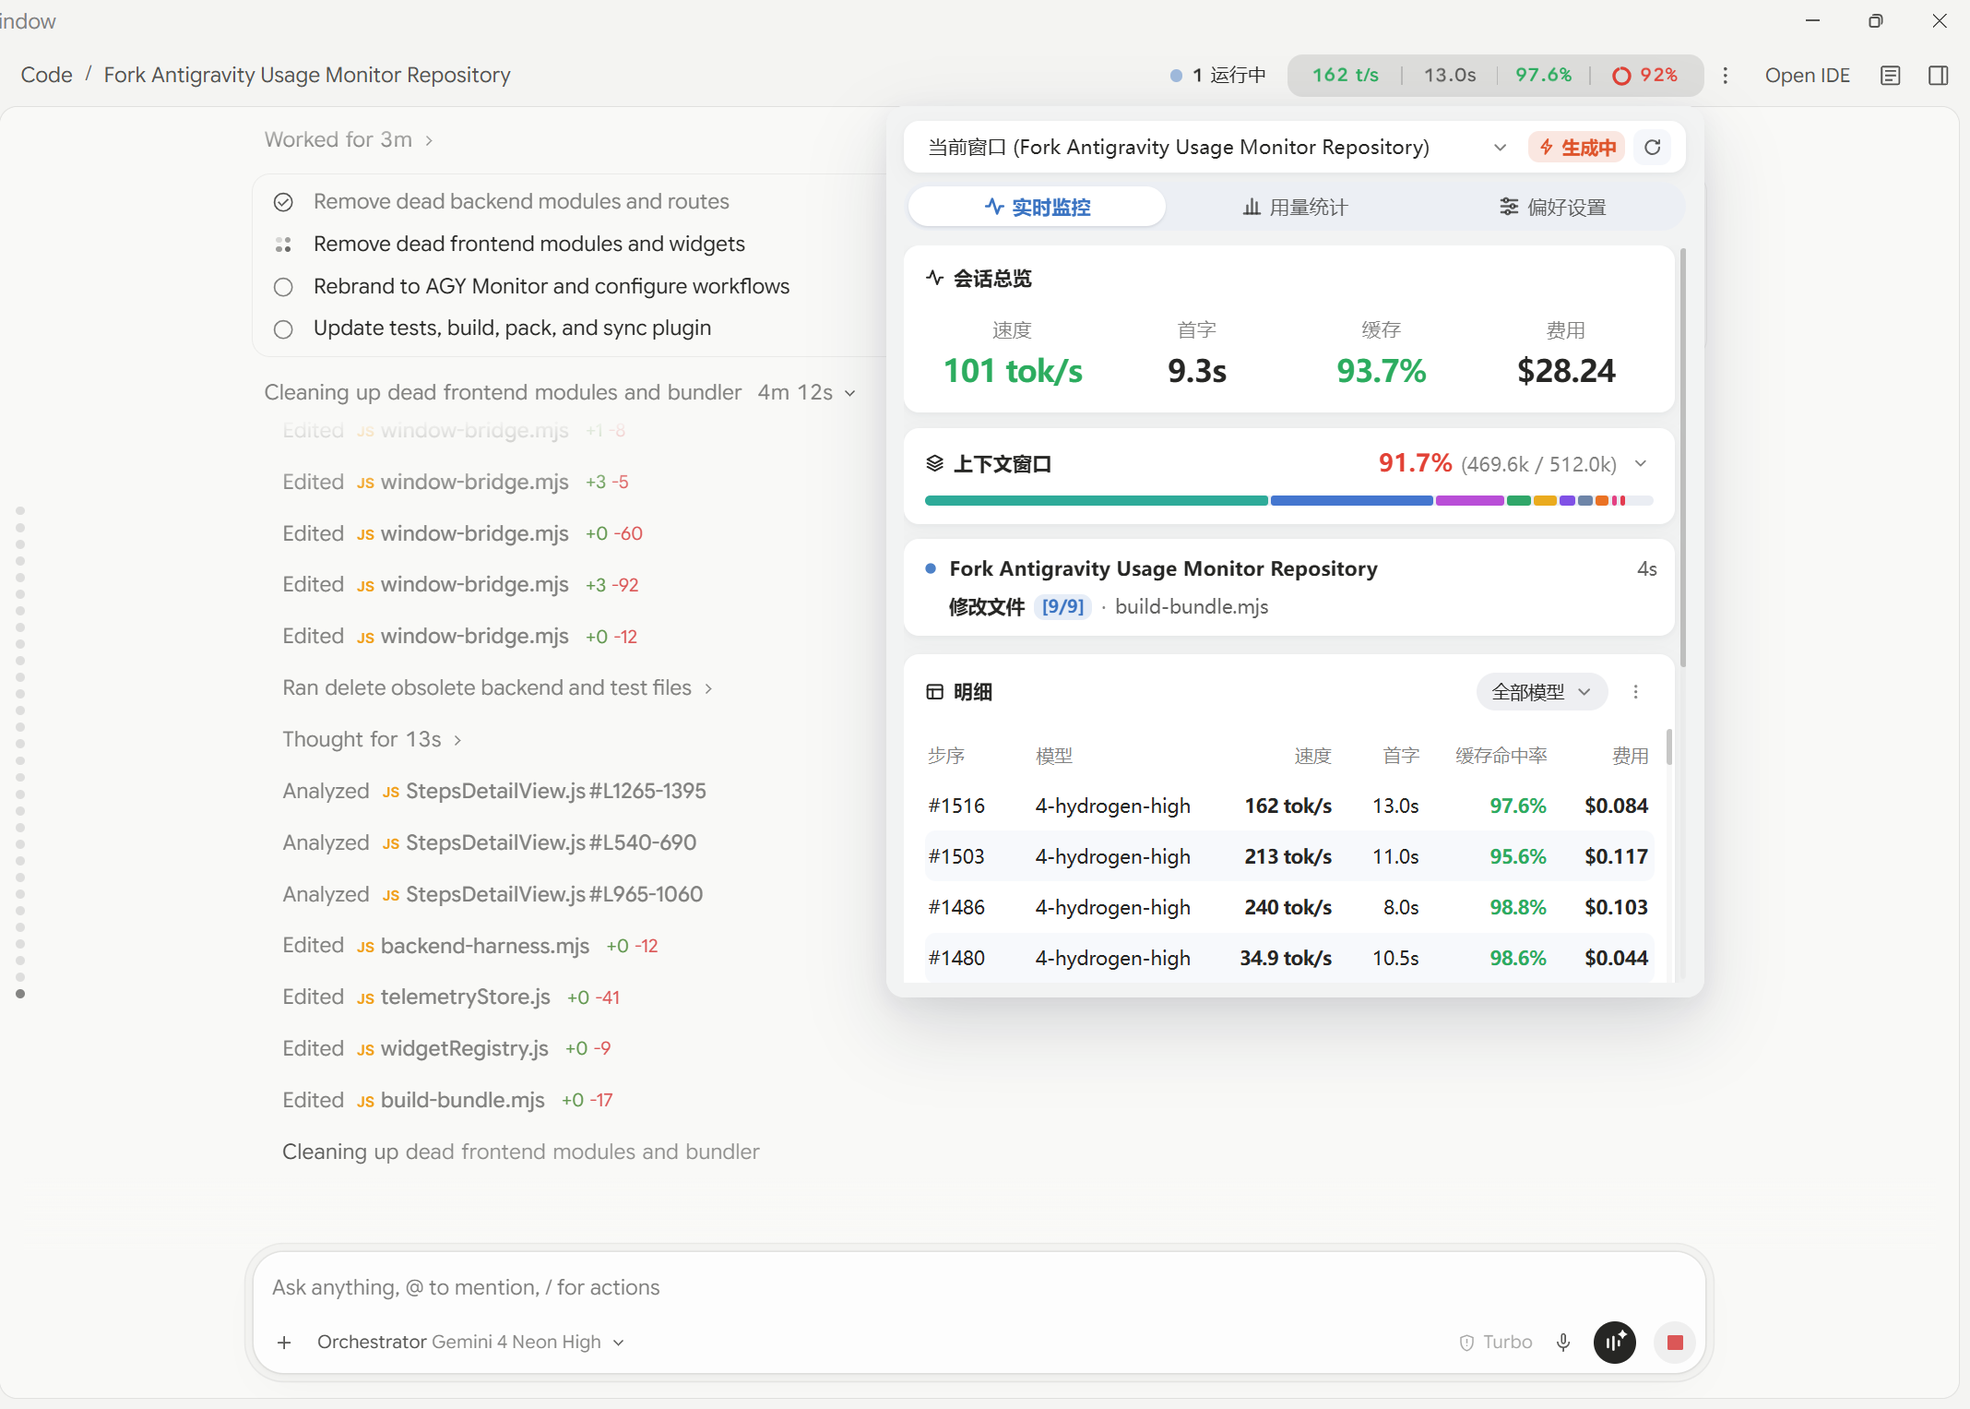
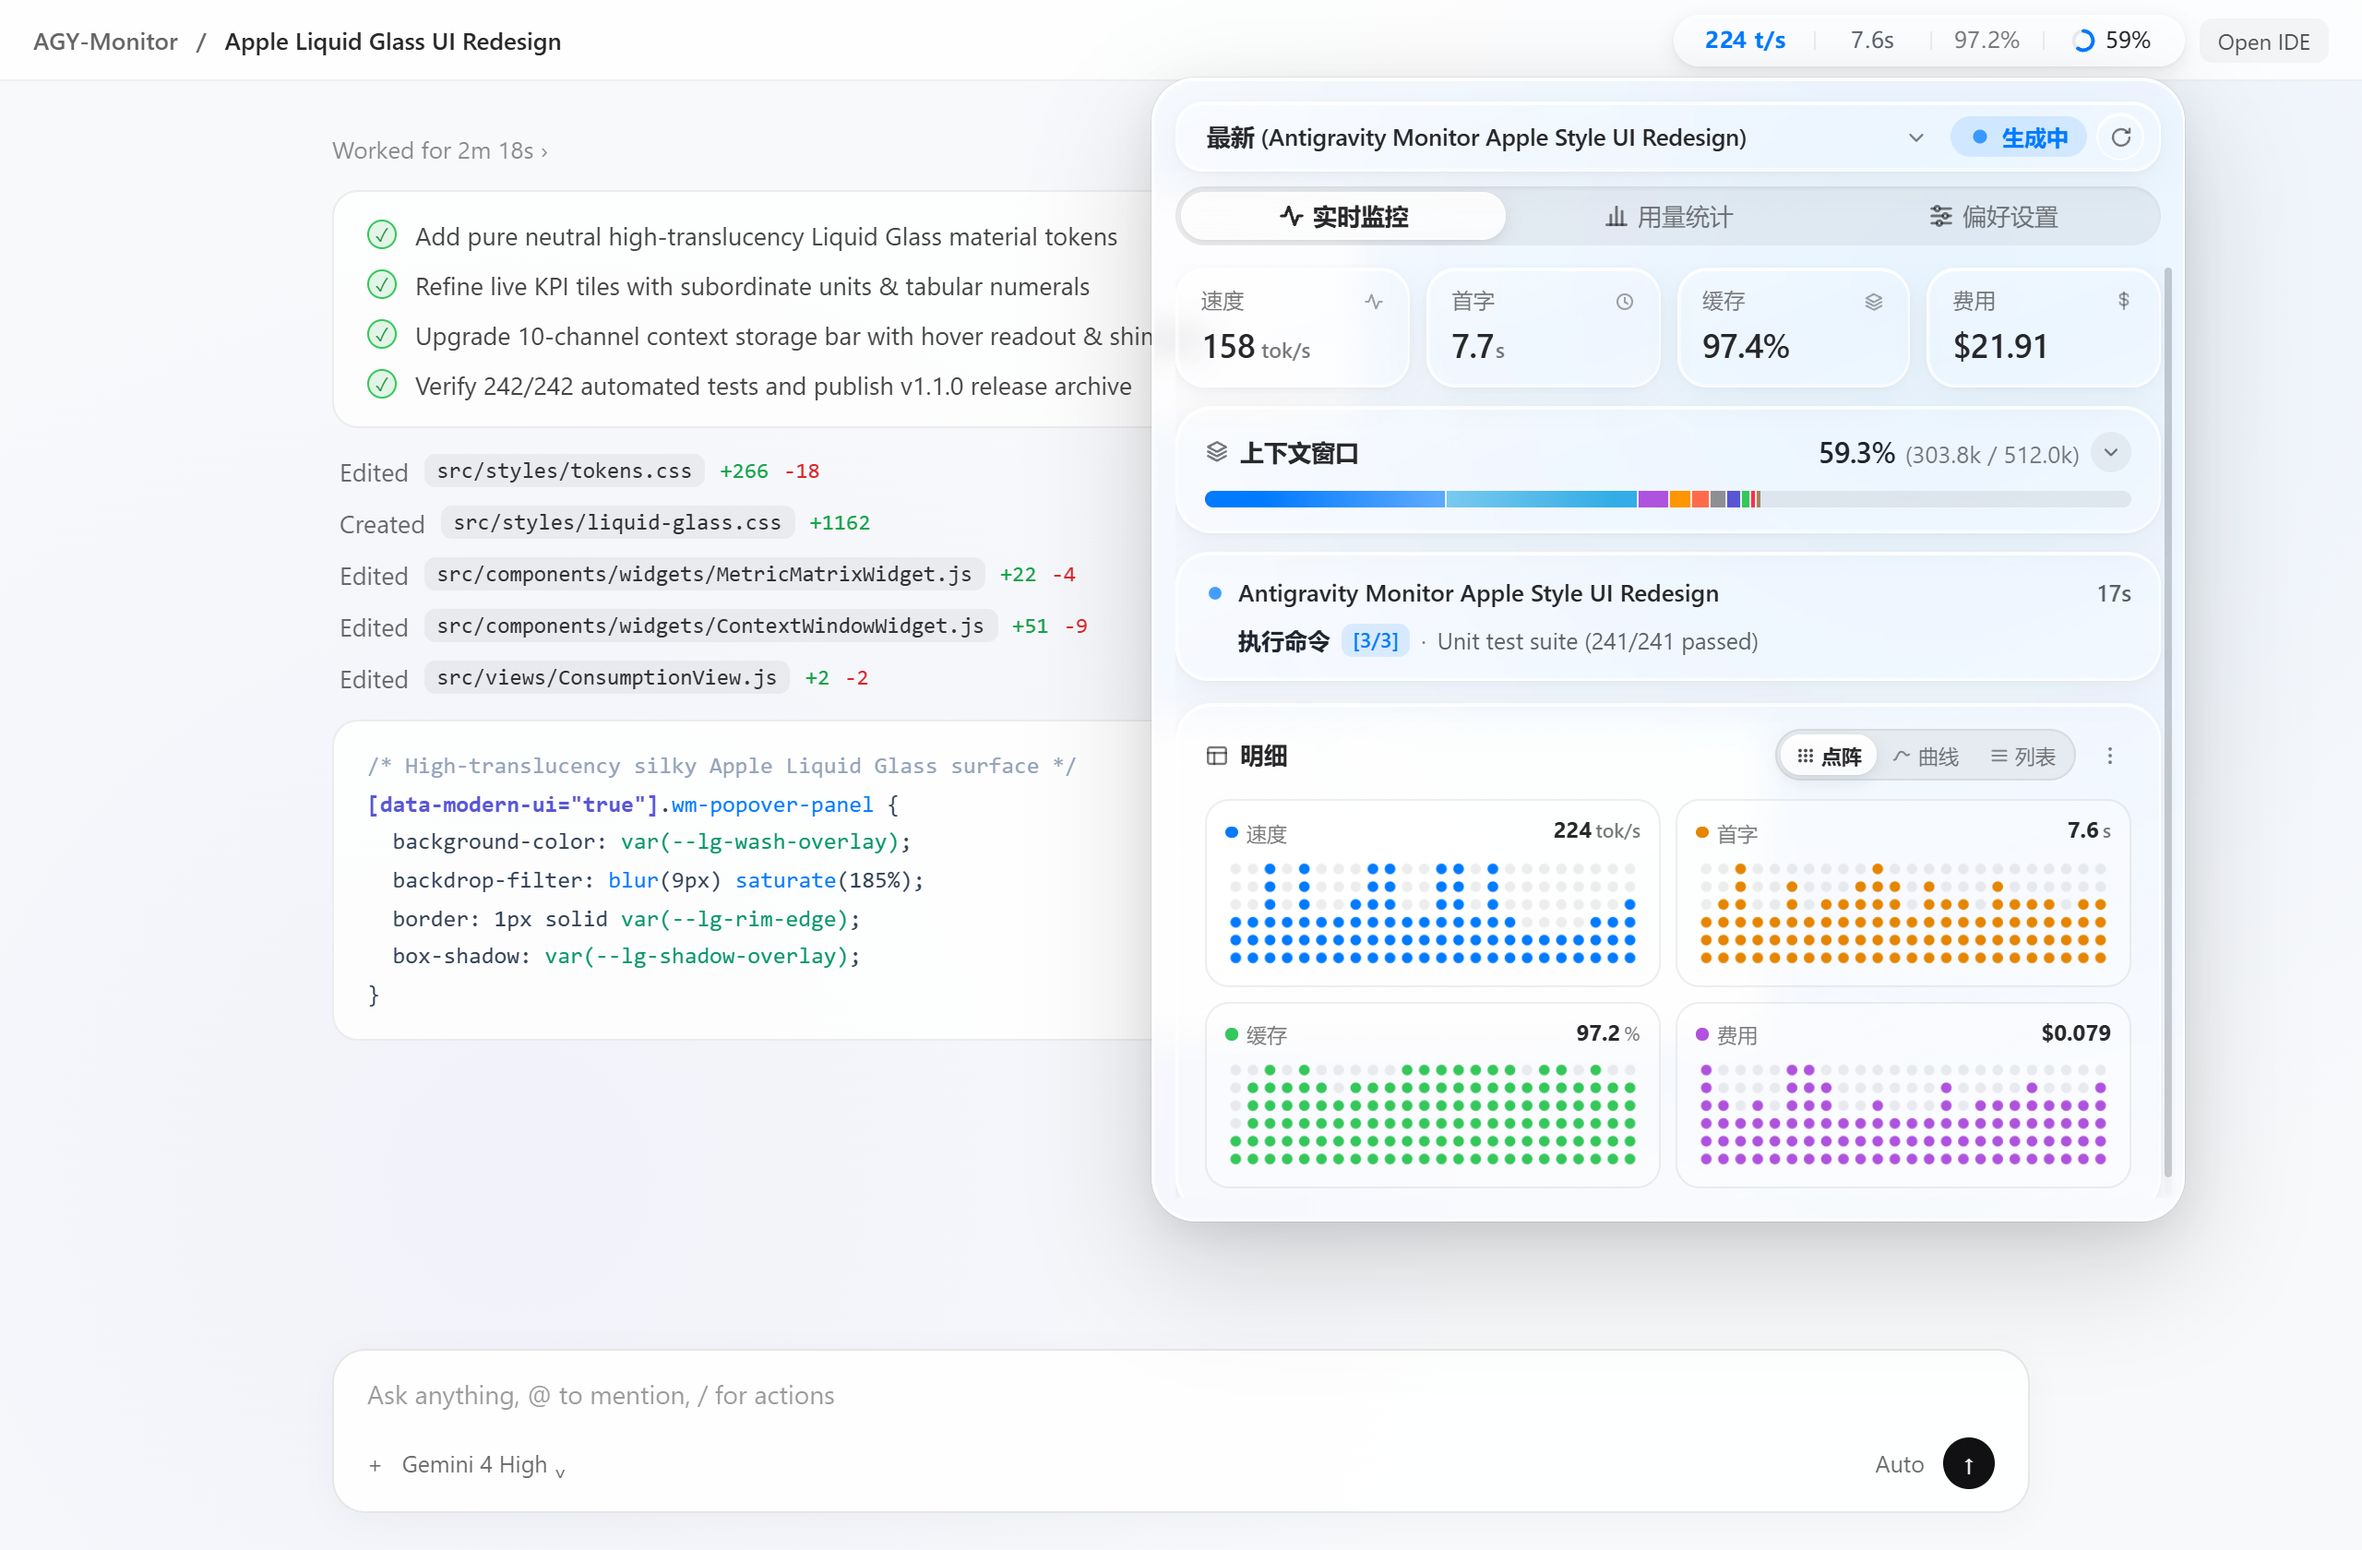
release: AGY Monitor v1.1.0 with Liquid Glass README and screenshots

diff --git a/README.zh-CN.md b/README.zh-CN.md
@@ -1,12 +1,14 @@
 <div align="center">
 
-<img src="assets/agy-monitor-icon.png" alt="AGY Monitor 图标" width="128" height="128" />
+<img src="assets/banner.png" alt="AGY Monitor — Apple Liquid Glass 实时监控插件" width="100%" />
 
 # AGY Monitor
 
-专注于本地实时性能指标与 Token 用量分析的 Google Antigravity 监控插件 —— 零外部依赖、零账号权限触碰、即装即用
+**Apple Liquid Glass 质感 · Google Antigravity 本地实时性能监控与 Token 分析插件**
 
-[![Release](https://img.shields.io/github/v/release/infinitex233/AGY-Monitor?style=flat-square&color=2A5E76&label=release)](https://github.com/infinitex233/AGY-Monitor/releases/latest)
+支持液态玻璃 / 默认经典双主题热切换 · 2×2 四维点阵/曲线趋势 · 纯吐字 TPS · 零外部依赖 · 零账号凭证触碰
+
+[![Release](https://img.shields.io/github/v/release/infinitex233/AGY-Monitor?style=flat-square&color=007aff&label=release)](https://github.com/infinitex233/AGY-Monitor/releases/latest)
 [![Downloads](https://img.shields.io/github/downloads/infinitex233/AGY-Monitor/total?style=flat-square&color=0ea5e9)](https://github.com/infinitex233/AGY-Monitor/releases)
 [![Stars](https://img.shields.io/github/stars/infinitex233/AGY-Monitor?style=flat-square&color=f59e0b)](https://github.com/infinitex233/AGY-Monitor/stargazers)
 [![License](https://img.shields.io/github/license/infinitex233/AGY-Monitor?style=flat-square&color=3b82f6)](LICENSE)
@@ -20,11 +22,7 @@
 
 <br />
 
-<img src="assets/screenshots/popover-live.png" alt="AGY Monitor 实时监控浮窗" width="100%" />
-
-<br />
-
-[下载最新版本 (Releases)](https://github.com/infinitex233/AGY-Monitor/releases/latest) · [直接下载 `agy-monitor.zip`](https://github.com/infinitex233/AGY-Monitor/releases/latest/download/agy-monitor.zip)
+[下载最新版本 (`v1.1.0`)](https://github.com/infinitex233/AGY-Monitor/releases/latest) · [直接下载 `agy-monitor.zip`](https://github.com/infinitex233/AGY-Monitor/releases/latest/download/agy-monitor.zip)
 
 </div>
 
@@ -56,9 +54,9 @@
     <td align="center" width="50%">
       <img src="assets/screenshots/popover-live.png" alt="实时监控浮窗" width="100%" />
       <br />
-      <b>实时监控（悬浮浮窗）</b>
+      <b>实时监控（Liquid Glass 悬浮浮窗）</b>
       <br />
-      <sub>会话总览、10 通道上下文构成条、活跃任务状态与内嵌式调用明细表</sub>
+      <sub>纯吐字 TPS、10 通道上下文条、活跃任务状态与 2×2 四维点阵 / 曲线 / 列表三态切换</sub>
     </td>
   </tr>
   <tr>
@@ -74,7 +72,7 @@
       <br />
       <b>右侧辅助栏视图</b>
       <br />
-      <sub>宽屏辅助栏常驻监控，完整展开多步骤模型性能与费用明细</sub>
+      <sub>宽屏辅助栏常驻监控，完整呈现 2×2 四维同步点阵与步骤明细</sub>
     </td>
   </tr>
 </table>
@@ -87,10 +85,10 @@
 - **无侵入轻量挂载**：通过本地 CDP 在内存层渲染，**绝不修改**宿主 `app.asar` 安装包。
 - **一眼掌握关键状态**：顶栏默认展示 **实时速度（`tok/s`）| 首字延迟（`TTFT`）| 实时缓存命中率 | 上下文环形占比**；鼠标悬停展开四卡速览（实时速度、首字延迟、实时缓存、本次费用）与上下文通道分布，点击开启完整面板，右键快速刷新。
 
-### 2. 「实时监控」：会话总览 + 上下文拆解 + 内嵌明细
-- **四合一会话总览**：直观汇总当前会话的平均输出速度、平均首字延迟、缓存命中率与累计预估费用。
-- **10 类上下文窗口构成**：清晰拆分模型回复、工具结果、用户消息、子代理通知、压缩摘要、系统提示词、系统工具、MCP 工具、Skill 与用户规则，支持在主代理与任意子代理 / Swarm Worker 间切换查看。
-- **内嵌式调用明细表**：无需切出标签页，直接在监控页底部浏览、排序或按模型筛选每一步调用；支持悬停查看首字/耗时拆解、异常与压缩诊断标注、关键词检索，以及导出为多表 Excel（`.xlsx`）或复制 Markdown 汇总。
+### 2. 「实时监控」：纯吐字 TPS + 上下文拆解 + 2×2 四维趋势
+- **纯吐字速度与四合一总览**：自动剔除首字排队/预填充等待（`outputTokens / max(totalDuration - TTFT, 50ms)`），真实反映模型生成吞吐，同时汇总平均首字延迟、缓存命中率与累计预估费用。
+- **10 类上下文窗口构成**：清晰拆分模型回复、工具结果、用户消息、子代理通知、压缩摘要、系统提示词、系统工具、MCP 工具、Skill 与用户规则，悬停任意分段即时高亮读数，支持主代理与子代理/蜂群切换查看。
+- **2×2 四维趋势与明细三态切换（点阵 / 曲线 / 列表）**：默认以 2×2 纯色点阵同屏呈现最近 24 步的速度、首字、缓存与费用（支持平滑曲线与完整明细表一键切换）；内置中位数锚定 P85 静默封顶与四格同步 Hover 联动，列表模式下保留筛选、排序与多表 Excel（`.xlsx`）/ Markdown 导出。
 - **更直观的模型代号**：精简模式采用版本号前置命名（例如 `4-hydrogen-high`、`4-neon-high`），符合 Gemini 模型识别直觉。
 
 ### 3. 「用量统计」：时间趋势 + 半年热力图 + 多维排行
@@ -100,7 +98,7 @@
 - **多维排行与报表导出**：对比不同模型、项目工作区与历史会话的 Token、费用、缓存命中率、平均速度与首字表现，同样支持导出 `.xlsx` 与 Markdown。
 
 ### 4. 「偏好设置」：单页轻量控制
-- **界面与显示**：一键切换语言（跟随宿主 / 简体中文 / English）、主题强调色、字号缩放（`sm / md / lg / xl`）、模型名称展示格式与挂载方式（双栖挂载 / 输入框挂载 / 仅侧边栏）。
+- **界面与显示**：一键切换语言（跟随宿主 / 简体中文 / English）、**界面风格（液态玻璃 / 默认）**、主题强调色、字号缩放（`sm / md / lg / xl`）、模型名称展示格式与挂载方式（双栖挂载 / 输入框挂载 / 仅侧边栏）。
 - **维护与同步**：支持从 GitHub 检查插件更新、同步 [`pricing-catalog.json`](pricing-catalog.json) 公开定价目录，或按需重建本地轨迹缓存、恢复默认配置。
 
 ---

diff --git a/CHANGELOG.md b/CHANGELOG.md
@@ -2,6 +2,14 @@
 
 All notable changes to **AGY Monitor** are documented in this file.
 
+## [1.1.0] - 2026-11
+
+### Highlights
+- **Switchable Apple Liquid Glass Theme (`uiTheme`, default: `liquid_glass`)**: Introduced a pure-neutral, crystal-clear frosted Liquid Glass visual system with specular meniscus rims, cursor-tracking sheen, and spring-eased transitions across the sidebar, floating popover, and hover cards — plus a live **UI Style (`Liquid Glass` / `Default`)** switcher in Preferences that preserves the classic upstream UI pixel-for-pixel.
+- **2×2 Four-Metric Step Trend View (`Dots / Curve / List`)**: Added a universal 3-way switcher in the step details header (default: **Dots**) displaying Speed, TTFT, Cache Hit %, and Step Cost in synchronized 2×2 dot-matrix or smooth Bezier curves, with median-anchored P85 silent outlier soft-capping, dynamic cache floor scaling, and synchronized 4-cell hover scrubbing with an inline header step pill.
+- **Pure Decode TPS (`MEASUREMENT_VERSION = 5`)**: Switched per-step and weighted-average speed calculations from end-to-end duration to pure decode duration (`max(totalDuration - TTFT, 50ms)`), excluding TTFT prefill/queue wait time and automatically recalculating legacy v4 caches.
+- **Crystal Glass & Layout Polish**: Refined KPI tiles with subordinate units (`tok/s`, `s`) and a minimalist `$` cost icon, upgraded the 10-channel context window bar with segment hover dimming and inline readout, kept secondary popovers/tooltips high-opacity frosted, made floating popover height adapt cleanly to content, and aligned card gutters pixel-symmetrically with the top bar.
+
 ## [1.0.2] - 2026-11
 
 ### Fixes & Consistency
